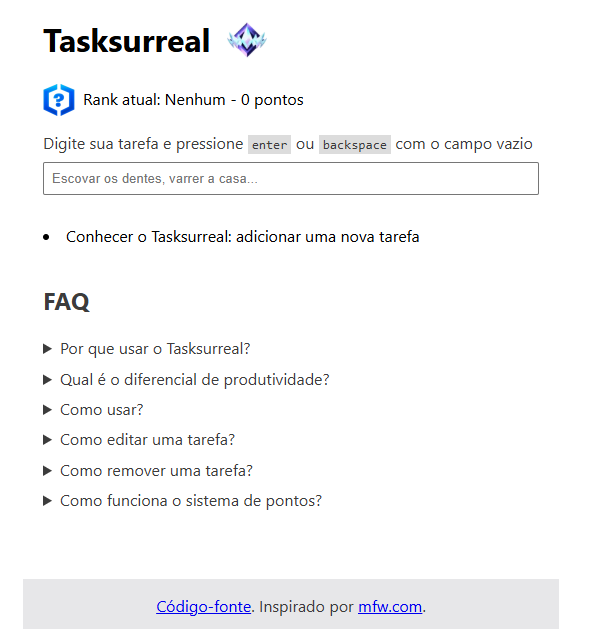
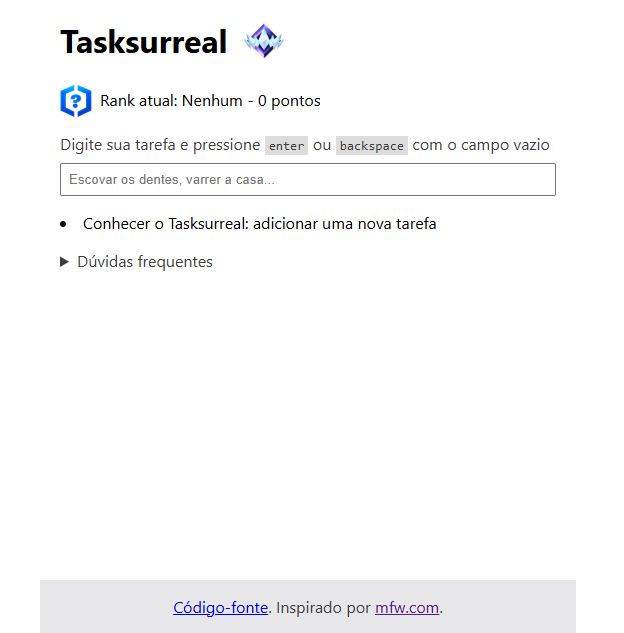
docs: upload christmas showcase

diff --git a/README.md b/README.md
@@ -1,10 +1,18 @@
 # Tasksurreal <img src="assets/unreal.webp" alt="Ícone do ranque Surreal do Fortnite" width="32" height="32" />
 
-Um gerenciador de tarefas mínimo, livre de distrações visuais e com foco na sua produtividade. 
+Uma lista de tarefas mínima, livre de distrações visuais e com foco na sua produtividade.
 
 Tasksurreal oferece uma to-do list que te incentiva a realizar seus afazeres por meio de um sistema de pontuação e te obriga a priorizar as atividades com uma limitação de tarefas.
 
 ![Página do Tasksurreal no estado inicial](docs/showcase-latest.png)
+
+<details>
+    <summary>Versão de Natal</summary>
+
+![Página do Tasksurreal no estado inicial, versão natalina](docs/showcase-xmas.png)
+
+</details>
+
 
 ## Por que usar o Tasksurreal?
 
